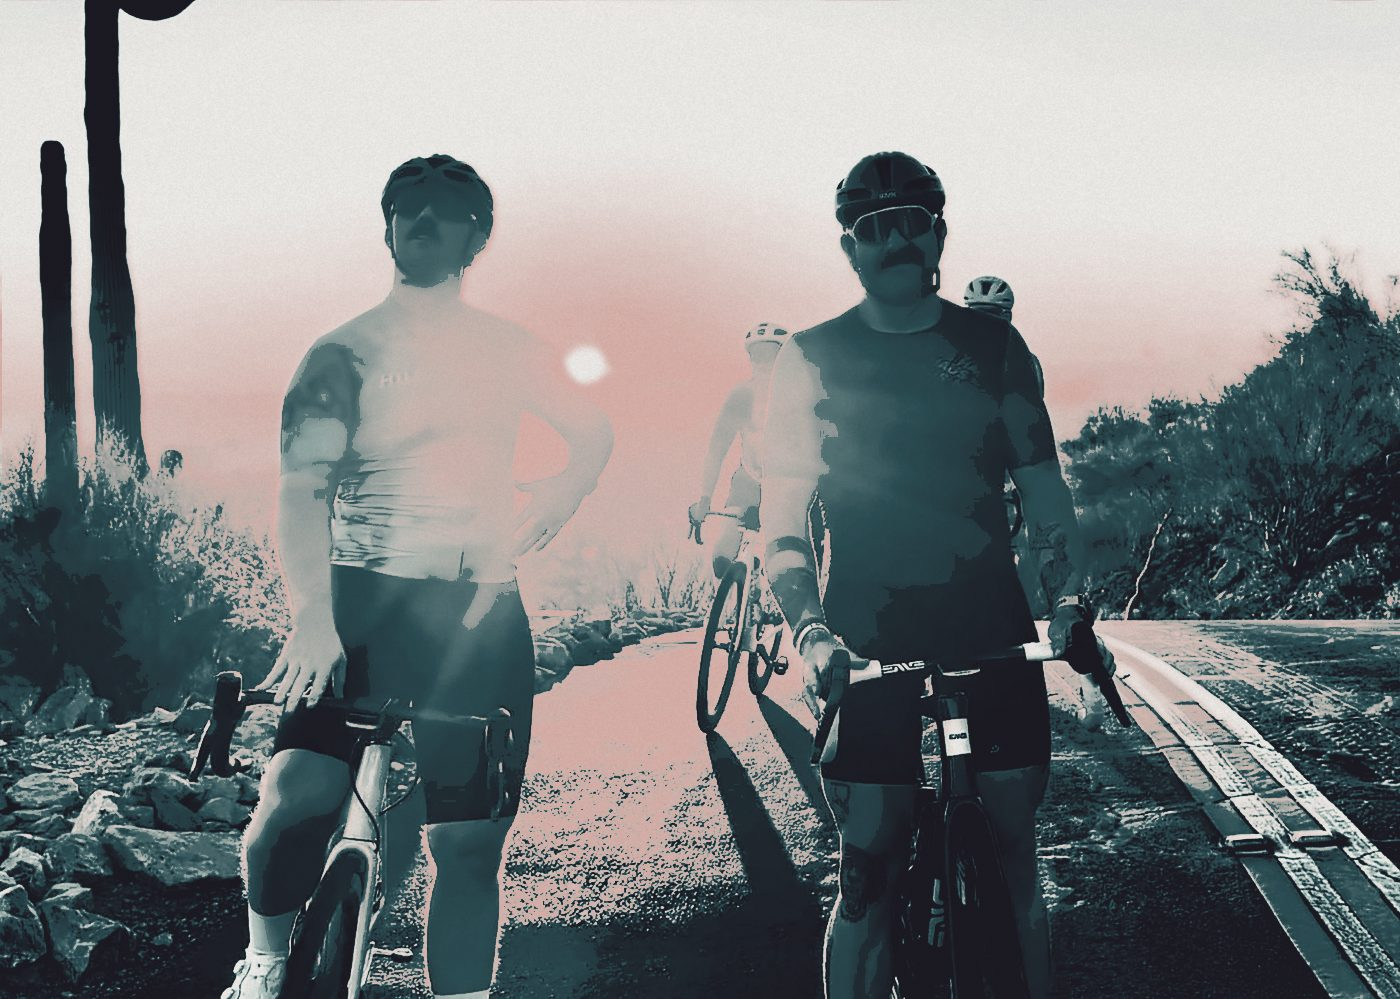
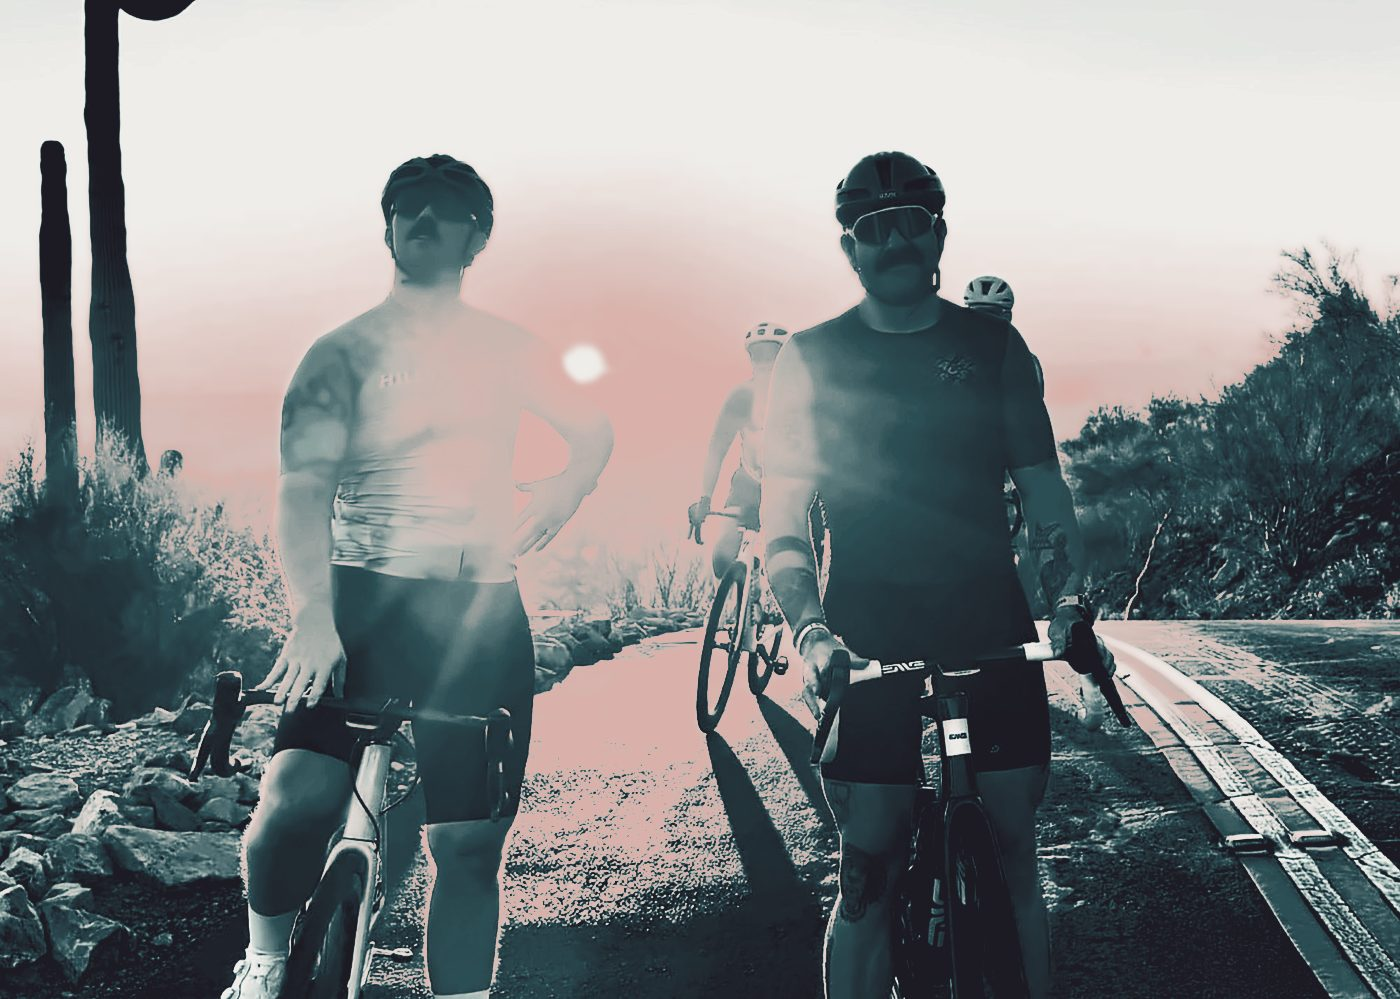
Pass 27c: the print, clean — no grain, no stepping, nothing off register
Robert: 'It's just too dirty looking.' The sign photo is now the photograph mapped into the four inks with
the rose on the light and nothing else: --crunch 0 --grain 0 --shift 0 0 (new flag), and the CSS grain on
the sign is off. The print knobs stay in tools/print.py for end cards and big print. On phones the
painter's mark goes bruise, since the phone crop puts it on the sky.

Claude-Session: https://claude.ai/code/session_013utkZFe5iNt36Rq9ZehCnH

Changed region(s): [[0.5836, 0.3724, 0.6143, 0.4034], [0.3379, 0.5896, 0.3686, 0.6206]]

diff --git a/cfc-site/home.css b/cfc-site/home.css
@@ -976,7 +976,7 @@ table.sr{display:block}   /* a table ignores width:1px otherwise and widens the 
 .sign-ph{position:absolute;inset:0;z-index:0}
 .sign-ph img{width:100%;height:100%;object-fit:cover;object-position:50% 18%;display:block}
 .sign-scrim{position:absolute;inset:0;z-index:1;background:linear-gradient(180deg,rgba(20,18,24,0) 0%,rgba(20,18,24,.35) 50%,rgba(20,18,24,.8) 100%),linear-gradient(90deg,rgba(20,18,24,.55) 0%,rgba(20,18,24,.25) 45%,rgba(20,18,24,0) 70%)}
-.sign--print .sign-grain{z-index:2;opacity:.07;mix-blend-mode:overlay}
+.sign--print .sign-grain{display:none}
 .sign--print .sign-in{z-index:3;align-items:end}
 .sign--print .sign-left{--w:clamp(250px,30vw,420px)}
 .sign--print .sign-kicker{color:var(--paper);font-size:16px;text-shadow:0 1px 10px rgba(20,18,24,.7)}
@@ -994,7 +994,7 @@ table.sr{display:block}   /* a table ignores width:1px otherwise and widens the 
   .sign-ph img{aspect-ratio:16/11;height:auto;object-position:50% 20%}
   .sign-scrim{background:linear-gradient(180deg,rgba(20,18,24,0) 0%,rgba(20,18,24,0) 36%,rgba(20,18,24,.85) 50%,rgba(20,18,24,.96) 100%)}
   .sign--print .sign-in{margin-top:-48px;padding-bottom:clamp(40px,8vw,64px)}
-  .sign-sig{width:40px}
+  .sign-sig{width:40px;color:var(--asphalt)}  /* the phone crop puts the mark on the sky, so it goes bruise there */
   .sign--print .sign-kicker{padding-right:56px}
 }
 /* the numbers on a stop bar */

diff --git a/tools/print.py b/tools/print.py
@@ -13,7 +13,11 @@ and the files are cut at the source's full width so nothing is upscaled on a 3x 
 
     python3 tools/print.py cfc-site/img/hero-wide.jpg cfc-site/img/sign-print.jpg --width 2000 --warmth .10
     python3 tools/print.py cfc-site/img/hero-wide.jpg cfc-site/img/sign-print-phone.jpg --width 1400 --warmth .10
-    python3 tools/print.py <in> <out> --width 1200 --warmth .16 --crunch .25 --grain .05
+    python3 tools/print.py <in> <out> --width 1200 --warmth .10 --crunch .25 --grain .05
+
+The cut that ships (Oct 5, 2026, "it's just too dirty looking"): --crunch 0 --grain 0 --shift 0 0 — the photo
+mapped into the four inks with the rose on the light, nothing stepped, nothing off register, no grain.
+The print knobs stay for end cards and big print.
 
 Deterministic (seeded) so a rebuild gives the same file.
 """
@@ -72,7 +76,8 @@ if __name__ == "__main__":
     p.add_argument("--crunch", type=float, default=0.25)
     p.add_argument("--grain", type=float, default=0.05)
     p.add_argument("--quality", type=int, default=82)
+    p.add_argument("--shift", type=int, nargs=2, default=(2, 1), help="rose misregister in px; 0 0 for a clean cut")
     a = p.parse_args()
-    img = print_image(a.src, a.width, crunch=a.crunch, warmth=a.warmth, grain=a.grain)
+    img = print_image(a.src, a.width, crunch=a.crunch, warmth=a.warmth, grain=a.grain, shift=tuple(a.shift))
     img.save(a.out, quality=a.quality, optimize=True, progressive=True)
     print("wrote", a.out, img.size)
